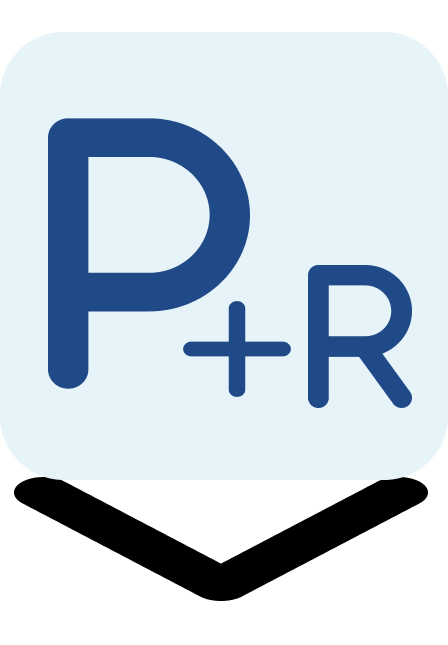
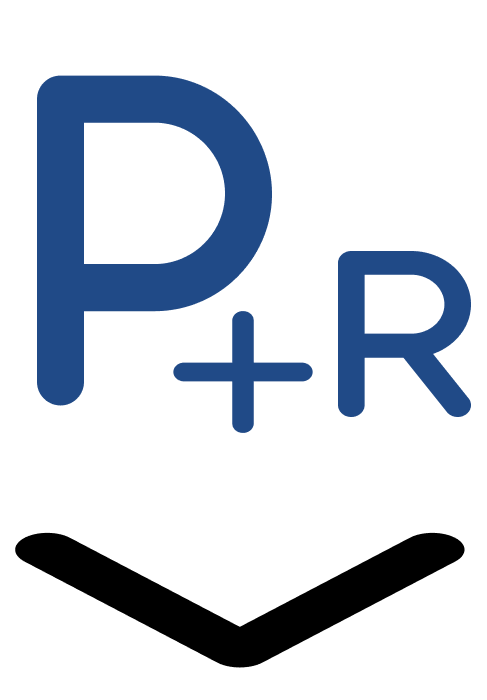
parking relais icone done

diff --git a/lib/services/gny_parking.dart b/lib/services/gny_parking.dart
@@ -193,13 +193,26 @@ class GnyParking extends ChangeNotifier {
               inspect(selectedParking);
               notifyListeners();
             },
-            child: Icon(
-                  FontAwesomeIcons.squareParking,
-                  size: 30,
-                  color: parking.isClosed != null ?
-                    !parking.isClosed! ? Colors.blue : Colors.red
-                    : Colors.blue,
-                ),
+            // child: Icon(
+            //       FontAwesomeIcons.squareParking,
+            //       size: 30,
+            //       color: parking.isClosed != null ?
+            //         !parking.isClosed! ? Colors.blue : Colors.red
+            //         : Colors.blue,
+            //     ),
+            child: parking.zone == "Parking Relais" ?
+            Image.asset(
+              "assets/images/icone_parking_relais.png",
+              // color: parking.isClosed != null ?
+              //   !parking.isClosed! ? Colors.blue : Colors.red
+              //   : Colors.blue,
+            )
+            : Image.asset(
+              "assets/images/icone_parking.png",
+              color: parking.isClosed != null ?
+                !parking.isClosed! ? Colors.blue : Colors.red
+                : Colors.blue,
+            ),
           )));
     }
     _markers.clear(); //? useless ?
